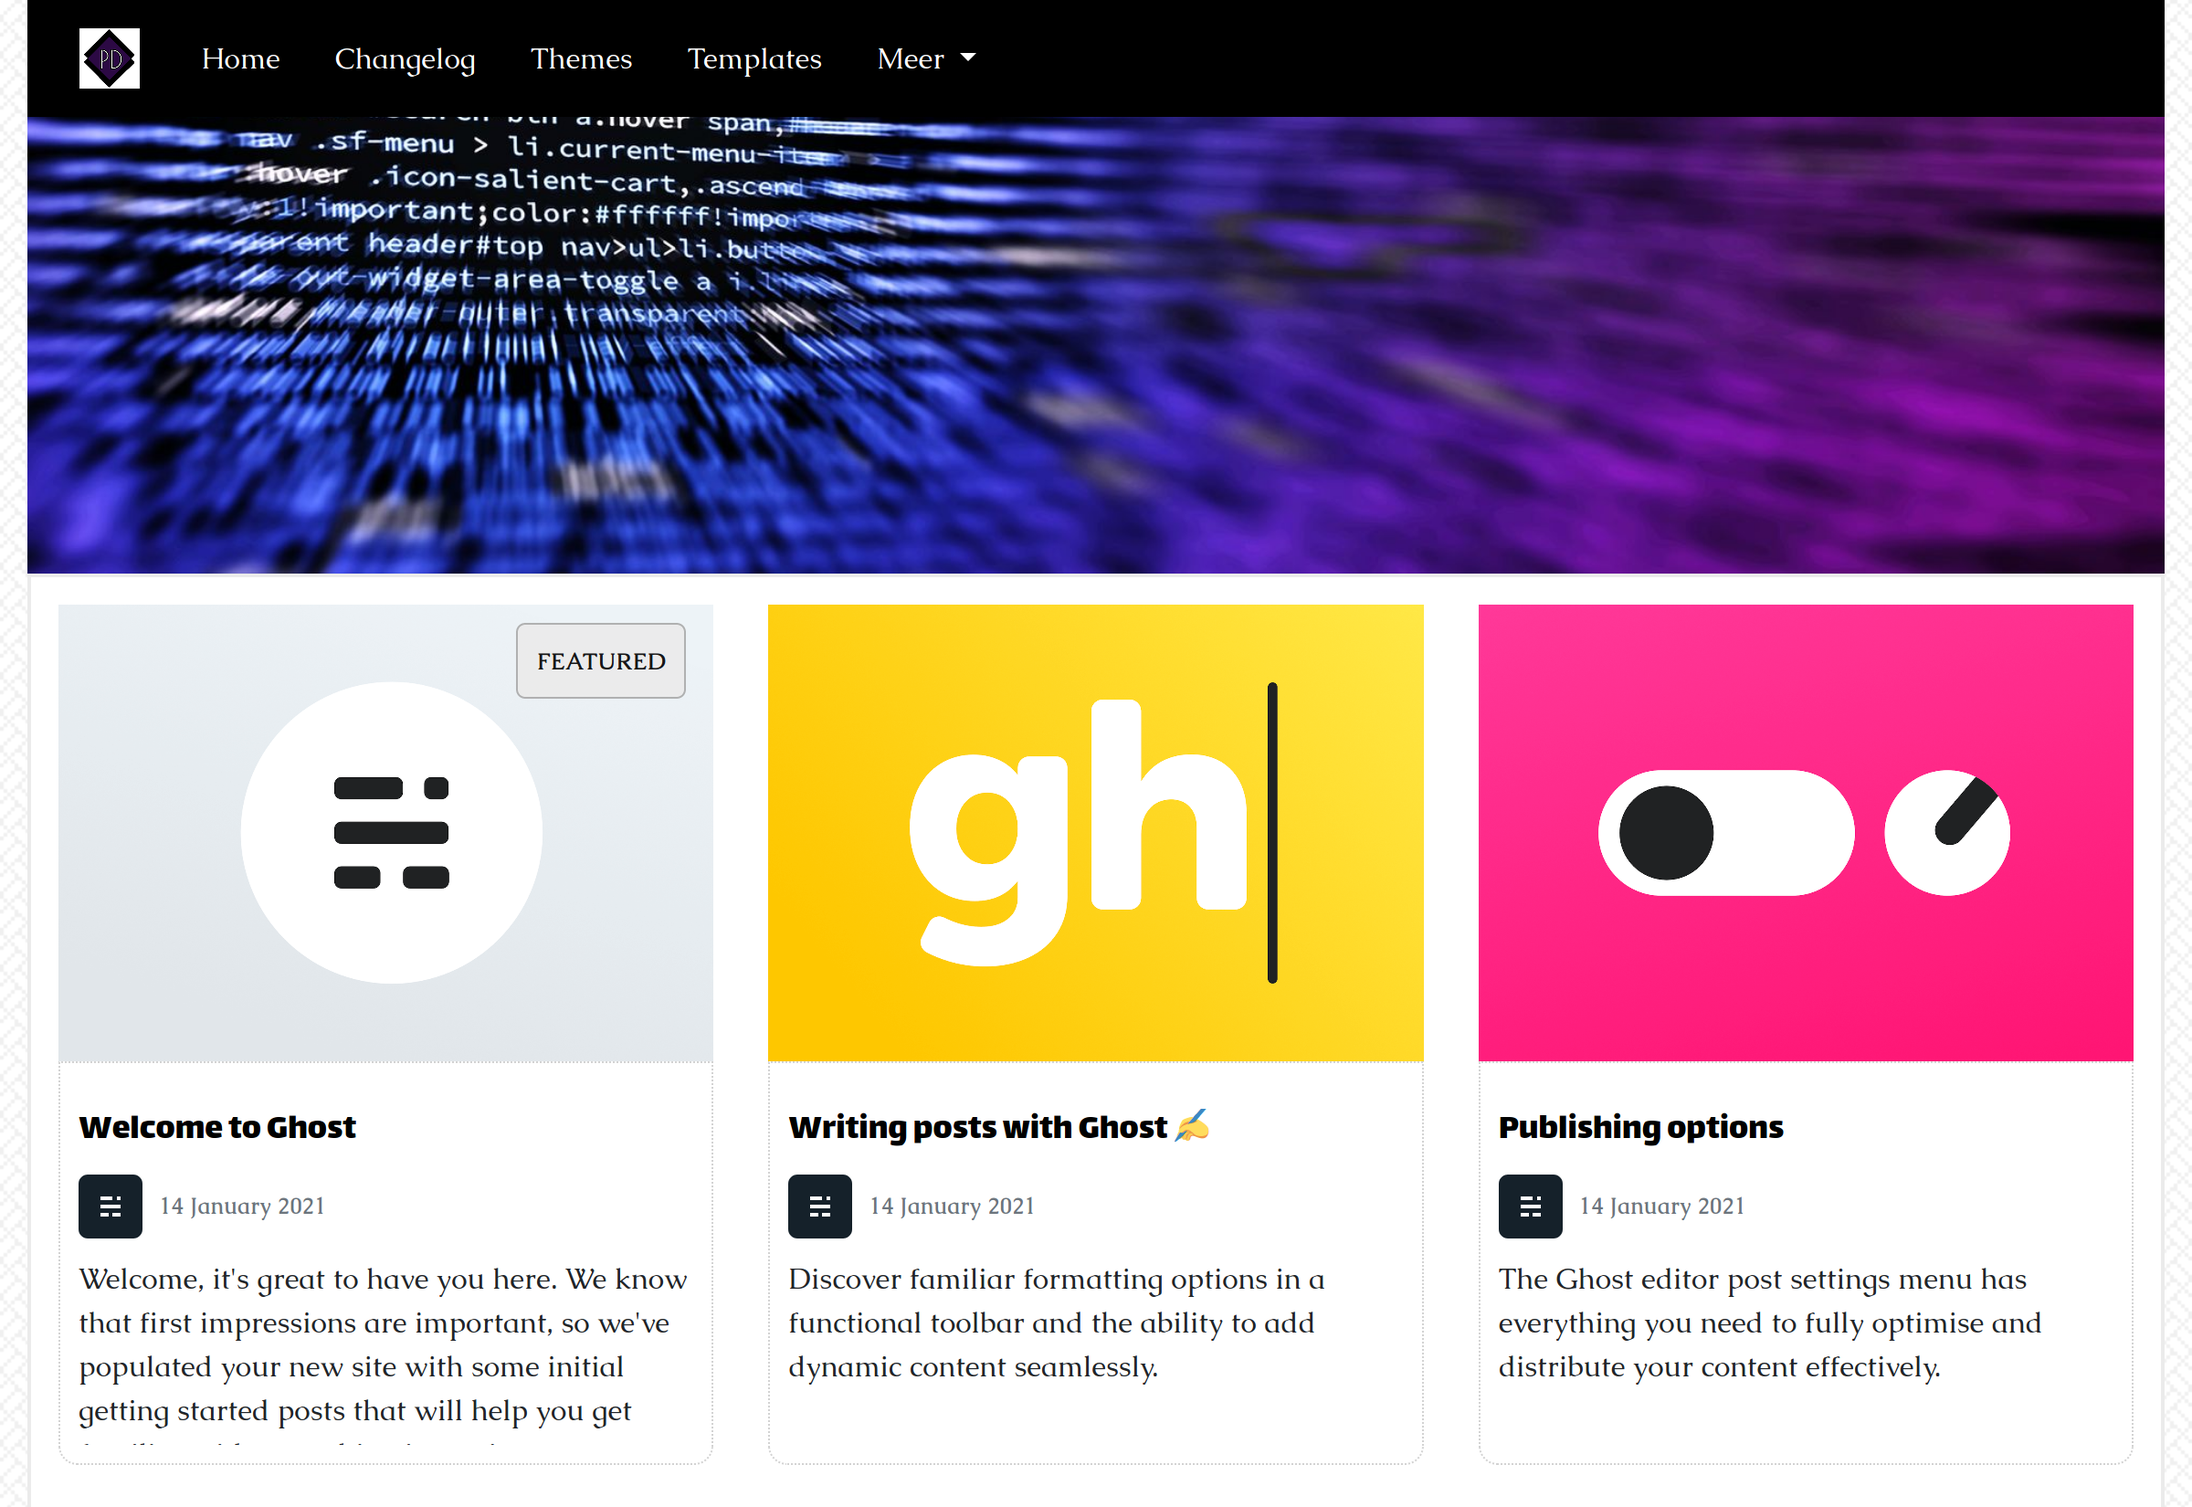
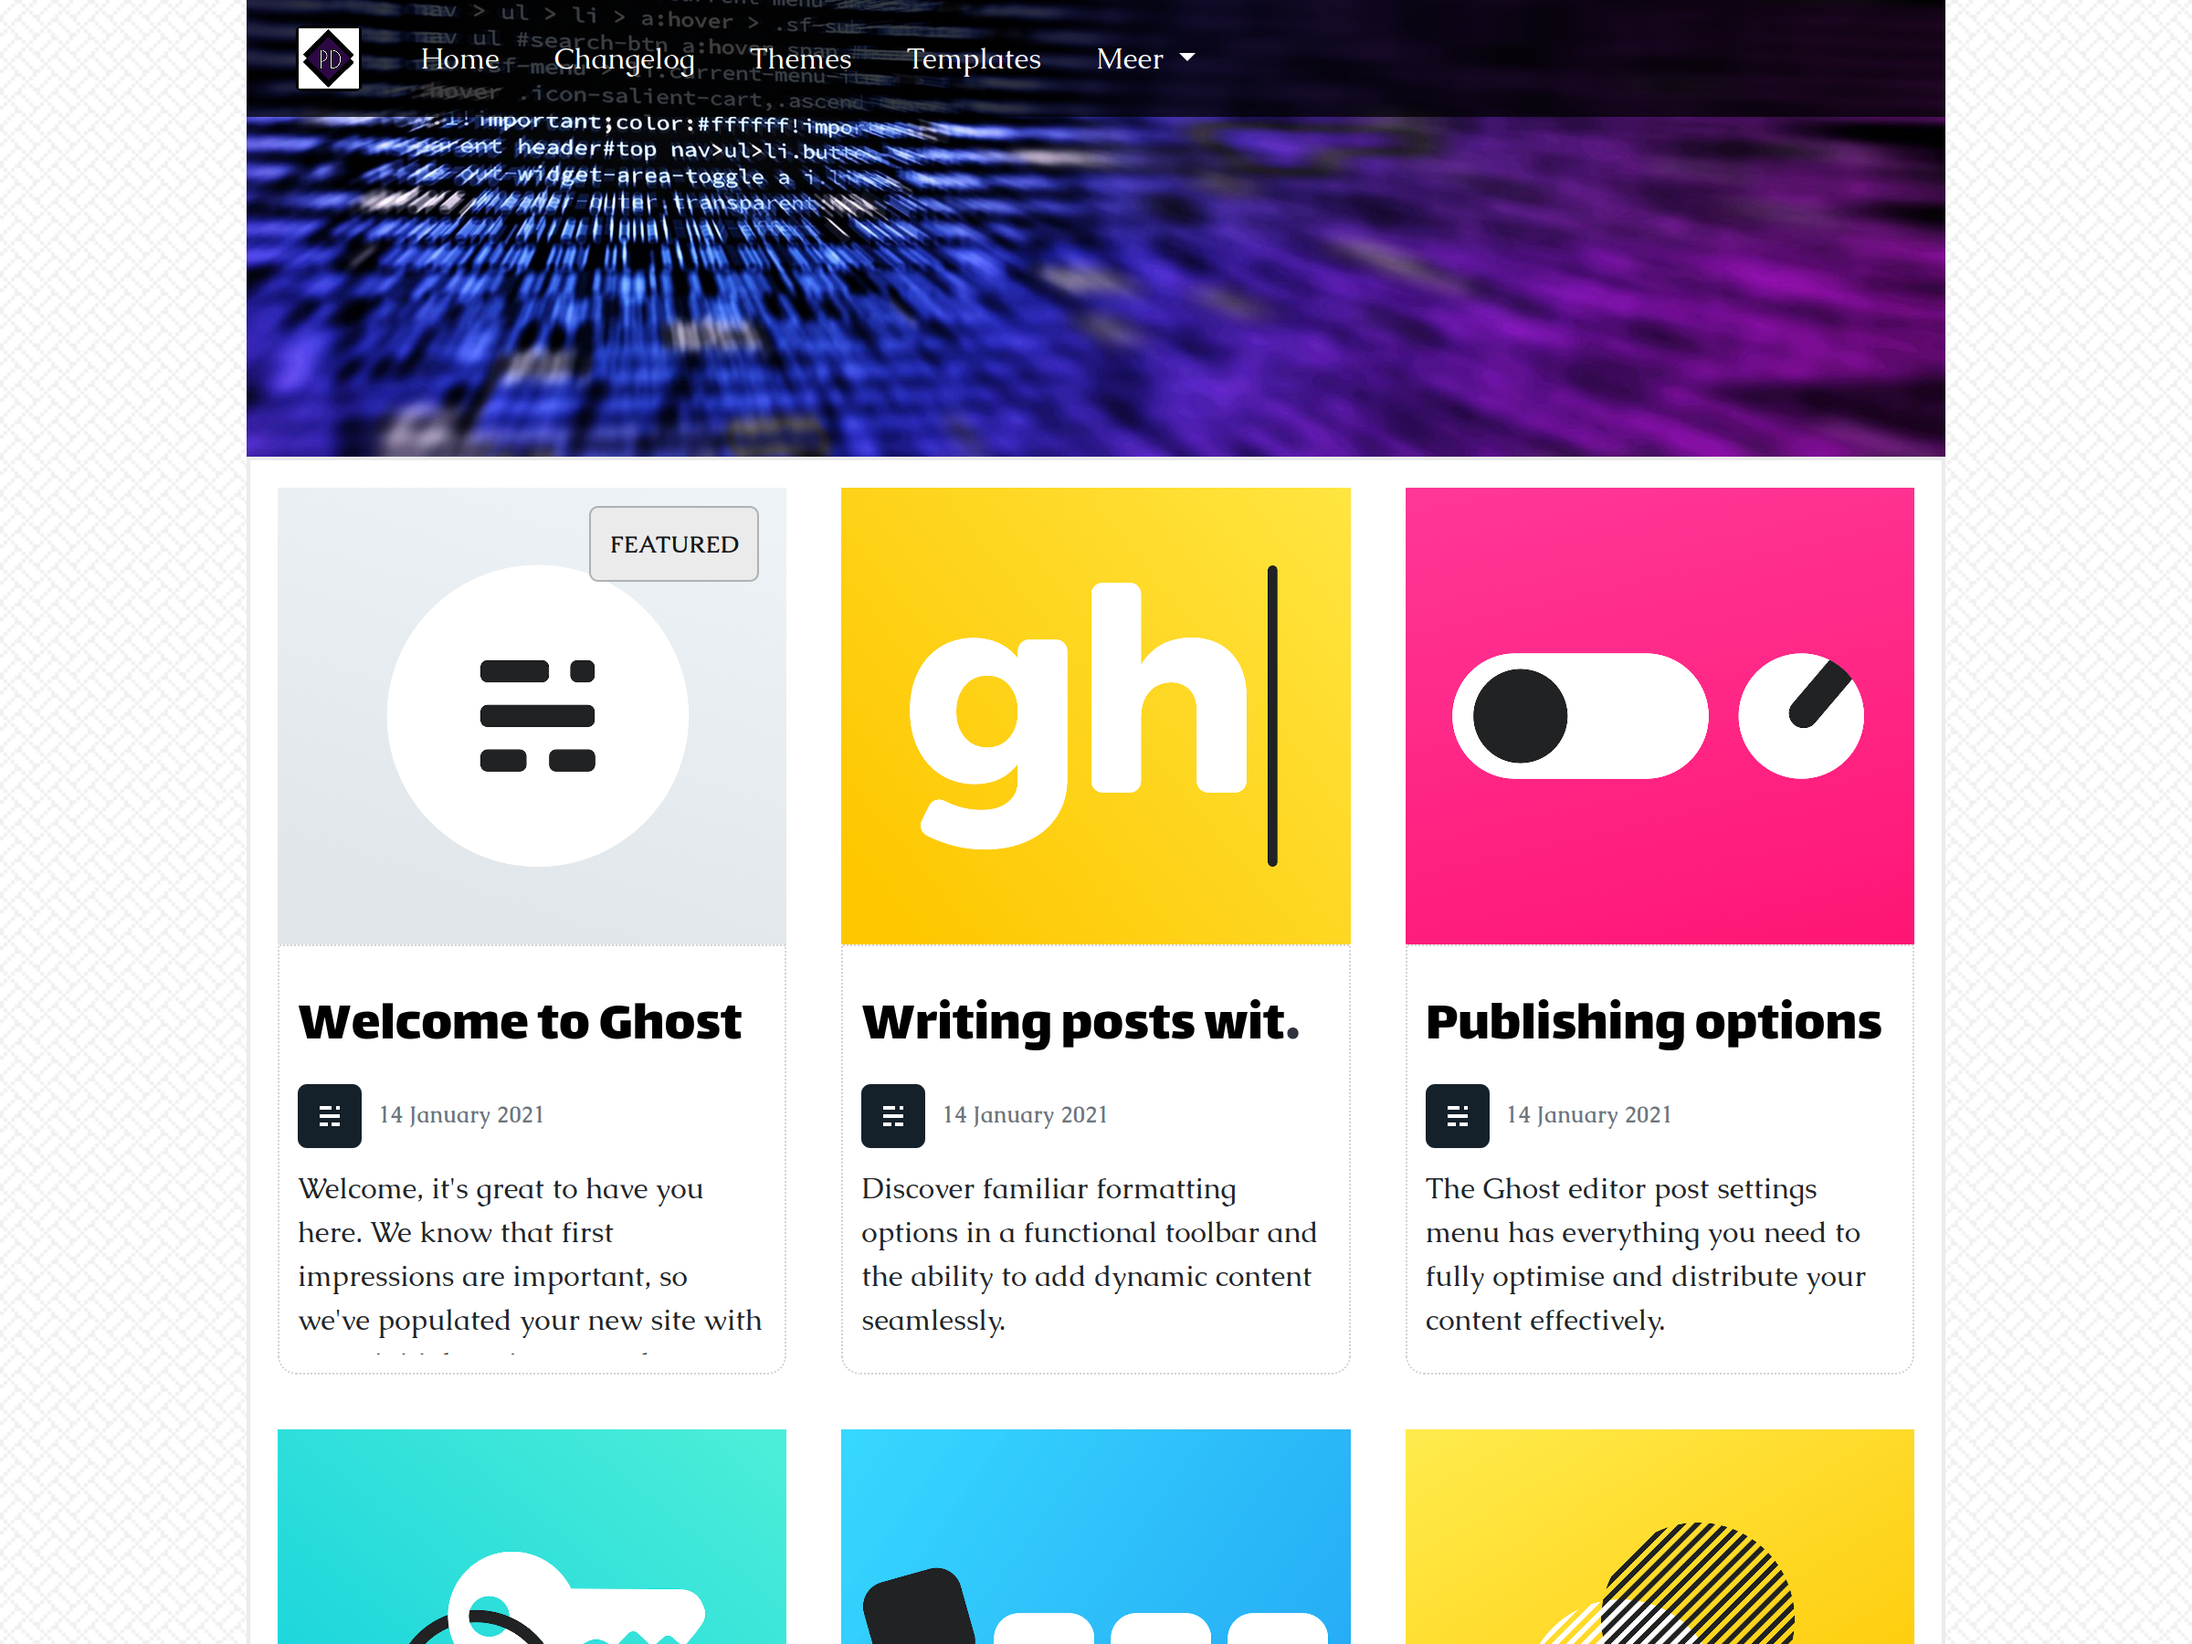
updated screenshot one last time

diff --git a/assets/css/style.css b/assets/css/style.css
@@ -1147,6 +1147,10 @@ footer {
 		top: 275px;
 	}
 
+	.navbar {
+		background: black;
+	}
+
 	.navbar-brand:hover {
 		color: #545454 !important;
 	}
@@ -1314,6 +1318,10 @@ footer {
 	.nav-link.dropdown-item {
 		text-align: center;
 	}
+
+	.main-content-head {
+		top: 0;
+	}
 }
 
 /* mobile devices */
@@ -1355,6 +1363,10 @@ footer {
 	.headerurl,
 	.nav-link {
 		text-shadow: none;
+	}
+
+	.navbar {
+		background: black;
 	}
 
 	.navbar-collapse {
@@ -1444,6 +1456,10 @@ footer {
 	.dropdown-menu.show,
 	.nav-link.dropdown-item {
 		text-align: center;
+	}
+
+	.main-content-head {
+		top: 0;
 	}
 }
 
